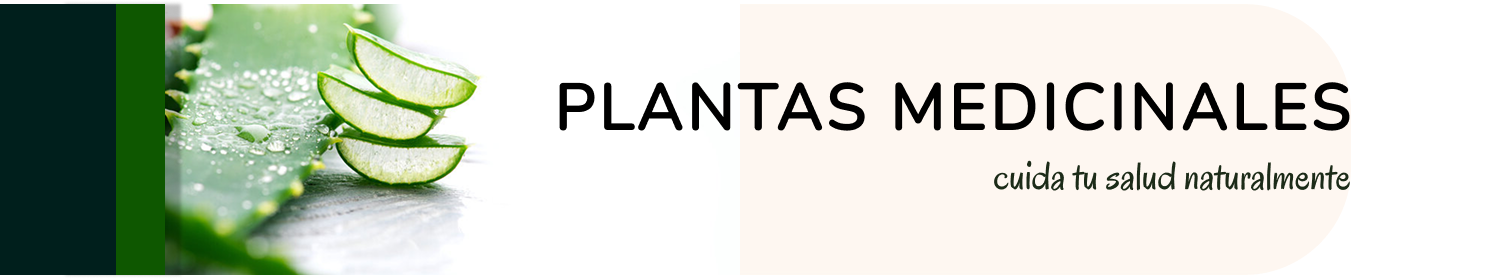
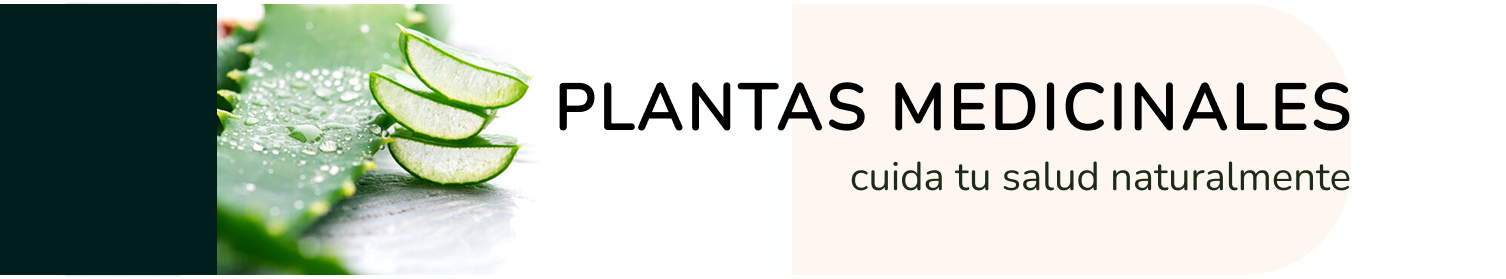
Cambios de la rama de YRed
Botón generar reporte, sliders y no recuerdo qué más

Changed region(s): [[0.0624, 0.0, 0.3745, 1.0], [0.5618, 0.5735, 0.905, 0.6882]]

diff --git a/frontend/src/pages/AdminStats.tsx b/frontend/src/pages/AdminStats.tsx
@@ -18,10 +18,16 @@ const CHART_COLORS = ["#645244", "#537a63", "#c4a557", "#1c2b18", "#5a7a54", "#9
 /* Cantidad de productos que muestran la dona y el panel de "Más vendidos" */
 const TOP_SELLERS_LIMIT = 6;
 
+const RANGE_LABELS: Record<StatsRange, string> = {
+    week: "Semanal",
+    month: "Mensual",
+    year: "Anual",
+};
+
 const RANGE_OPTIONS: { key: StatsRange; label: string }[] = [
-    { key: "week", label: "Semanal" },
-    { key: "month", label: "Mensual" },
-    { key: "year", label: "Anual" },
+    { key: "week", label: RANGE_LABELS.week },
+    { key: "month", label: RANGE_LABELS.month },
+    { key: "year", label: RANGE_LABELS.year },
 ];
 
 type PanelKey = "vendidos" | "agotarse" | "agotados" | null;
@@ -134,27 +140,33 @@ export default function AdminStats() {
                 <p className="text-sm text-primarioBase mb-4">Resumen del estado del vivero.</p>
 
                 {/* Selector de período: lo usan el resumen financiero, el gráfico de ganancias y los más vendidos */}
-                <div
-                    className="inline-flex bg-white border border-primarioClaro rounded-full p-1 mb-4"
-                    role="group"
-                    aria-label="Período de las estadísticas"
-                >
-                    {RANGE_OPTIONS.map((option) => (
-                        <button
-                            key={option.key}
-                            type="button"
-                            onClick={() => setRange(option.key)}
-                            aria-pressed={range === option.key}
-                            className={`px-4 py-1.5 rounded-full text-xs font-semibold transition ${
-                                range === option.key ? "bg-primarioBase text-white" : "text-primarioBase hover:bg-tarjeta"
-                            }`}
-                        >
-                            {option.label}
-                        </button>
-                    ))}
+                <div className="flex flex-wrap items-center justify-between gap-3 mb-4">
+                    <div
+                        className="inline-flex bg-white border border-primarioClaro rounded-full p-1"
+                        role="group"
+                        aria-label="Período de las estadísticas"
+                    >
+                        {RANGE_OPTIONS.map((option) => (
+                            <button
+                                key={option.key}
+                                type="button"
+                                onClick={() => setRange(option.key)}
+                                aria-pressed={range === option.key}
+                                className={`px-4 py-1.5 rounded-full text-xs font-semibold transition ${
+                                    range === option.key ? "bg-primarioBase text-white" : "text-primarioBase hover:bg-tarjeta"
+                                }`}
+                            >
+                                {option.label}
+                            </button>
+                        ))}
+                    </div>
+                    <button
+                        type="button"
+                        className="px-5 py-2.5 rounded-full text-xs font-semibold bg-primarioBase text-white"
+                    >
+                        Generar reporte {RANGE_LABELS[range].toLowerCase()}
+                    </button>
                 </div>
-
-                
 
                 {/* Fila de filtros desplegables: cada panel flota debajo de su botón */}
                 <div ref={panelsRef} className="flex flex-col sm:flex-row gap-3 mb-4 relative">

diff --git a/frontend/src/pages/Catalog.tsx b/frontend/src/pages/Catalog.tsx
@@ -13,16 +13,15 @@ import "swiper/css";
 import "swiper/css/pagination";
 
 const BANNERS = [
-    { src: "/Banner 1.png", position: "object-center" },
-    { src: "/Banner 2.png", position: "object-center" },
-    { src: "/Banner 3.png", position: "object-center" },
-    { src: "/Banner 4.png", position: "object-left" },
-    { src: "/Banner 5.png", position: "object-left" },
-    { src: "/Banner 6.png", position: "object-[75%_center]" },
-    { src: "/Banner 7.png", position: "object-right" },
-    { src: "/Banner 8.png", position: "object-[75%_center]" },
-    { src: "/Banner 9.png", position: "object-right" },
-    { src: "/Banner 10.png", position: "object-center" },
+    { src: "/Banner 1.png", mobileSrc: "/Banner 1 Mobile.png", position: "object-center" },
+    { src: "/Banner 2.png", mobileSrc: "/Banner 2 Mobile.png", position: "object-center" },
+    { src: "/Banner 3.png", mobileSrc: "/Banner 3 Mobile.png", position: "object-center" },
+    { src: "/Banner 4.png", mobileSrc: "/Banner 4 Mobile.png", position: "object-center" },
+    { src: "/Banner 5.png", mobileSrc: "/Banner 5 Mobile.png", position: "object-center" },
+    { src: "/Banner 6.png", mobileSrc: "/Banner 6 Mobile.png", position: "object-center" },
+    { src: "/Banner 7.png", mobileSrc: "/Banner 7 Mobile.png", position: "object-center" },
+    { src: "/Banner 8.png", mobileSrc: "/Banner 8 Mobile.png", position: "object-center" },
+    { src: "/Banner 9.png", mobileSrc: "/Banner 9 Mobile.png", position: "object-center" },
 ];
 
 /* Página privada que muestra el catálogo y las acciones disponibles para el rol */
@@ -49,7 +48,7 @@ export default function Catalog() {
             {/* w-full + min-w-0: dentro de un contenedor flex, Swiper sin esto calcula un ancho gigante */}
             <Swiper
                 id="first"
-                className="w-full min-w-0"
+                className="catalog-banner-slider w-full min-w-0"
                 modules={[Autoplay, Pagination]}
                 autoplay={{ delay: 4000 }}
                 pagination={{ clickable: true }}
@@ -57,11 +56,14 @@ export default function Catalog() {
             >
                 {BANNERS.map((banner) => (
                     <SwiperSlide key={banner.src}>
-                        <img
-                            src={banner.src}
-                            alt=""
-                            className={`block w-full h-36 sm:h-44 md:h-auto md:aspect-[1506/275] object-cover ${banner.position}`}
-                        />
+                        <picture className="block w-full">
+                            <source media="(max-width: 767px)" srcSet={encodeURI(banner.mobileSrc)} />
+                            <img
+                                src={banner.src}
+                                alt=""
+                                className={`block w-full h-auto md:aspect-[1506/271] md:object-cover ${banner.position}`}
+                            />
+                        </picture>
                     </SwiperSlide>
                 ))}
             </Swiper>

diff --git a/frontend/src/index.css b/frontend/src/index.css
@@ -31,18 +31,24 @@ html, body {
   }
 }
 
-/* Bolitas del carrusel Swiper: borde blanco + aro oscuro fino para que se vean sobre cualquier imagen */
+/* Indicadores de paginación de los carruseles Swiper */
 .swiper-pagination .swiper-pagination-bullet {
   width: 10px;
   height: 10px;
-  opacity: 1; /* Swiper las trae al 20% de opacidad, por eso se pierden sobre las imágenes */
-  background-color: rgba(255, 255, 255, 0.55);
-  border: 1.5px solid #ffffff;
-  box-shadow: 0 0 0 1px rgba(0, 0, 0, 0.35);
+  opacity: 1;
+  background-color: #929487;
+  border: 0;
+  box-shadow: none;
+  transition: width 0.2s ease, background-color 0.2s ease;
 }
 
-/* La activa mantiene el verde institucional y se ve un poco más grande */
 .swiper-pagination .swiper-pagination-bullet-active {
-  background-color: #4a6b53;
-  transform: scale(1.3);
+  width: 34px;
+  border-radius: 9999px;
+  background-color: #537a63;
+}
+
+.catalog-banner-slider .swiper-pagination {
+  position: static;
+  margin-top: 8px;
 }
